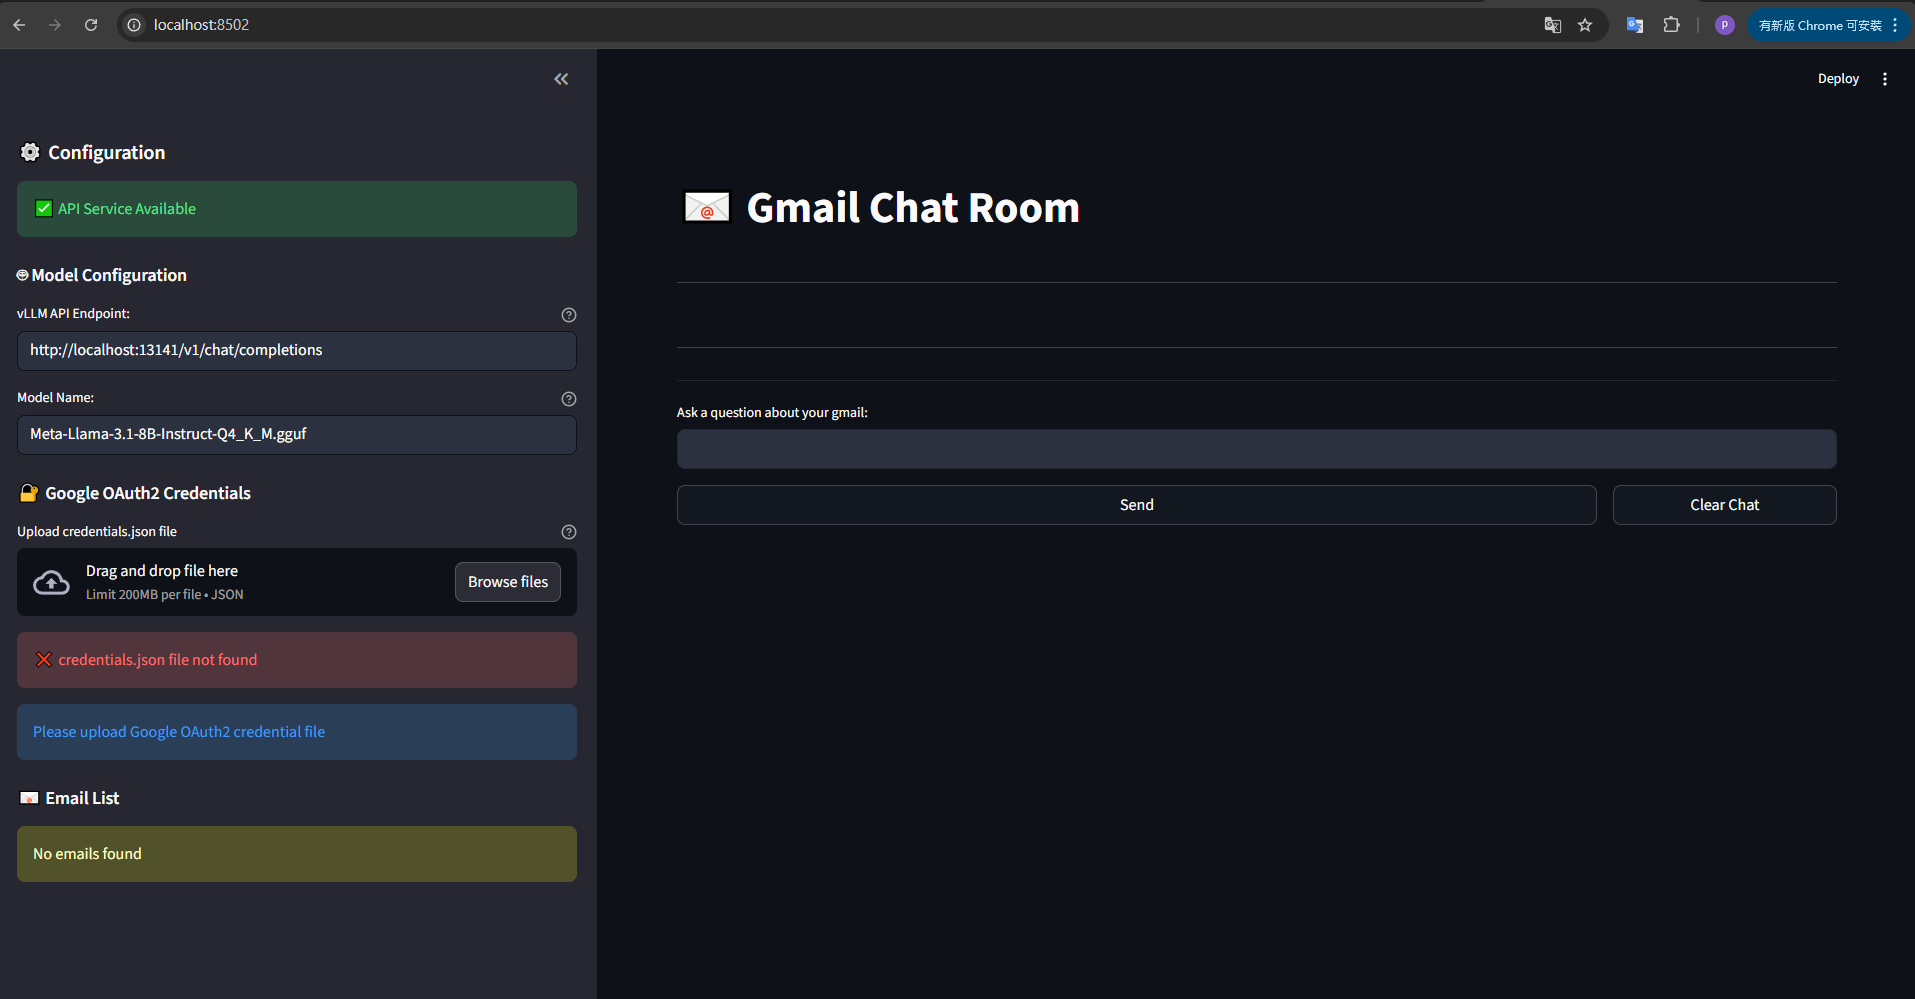
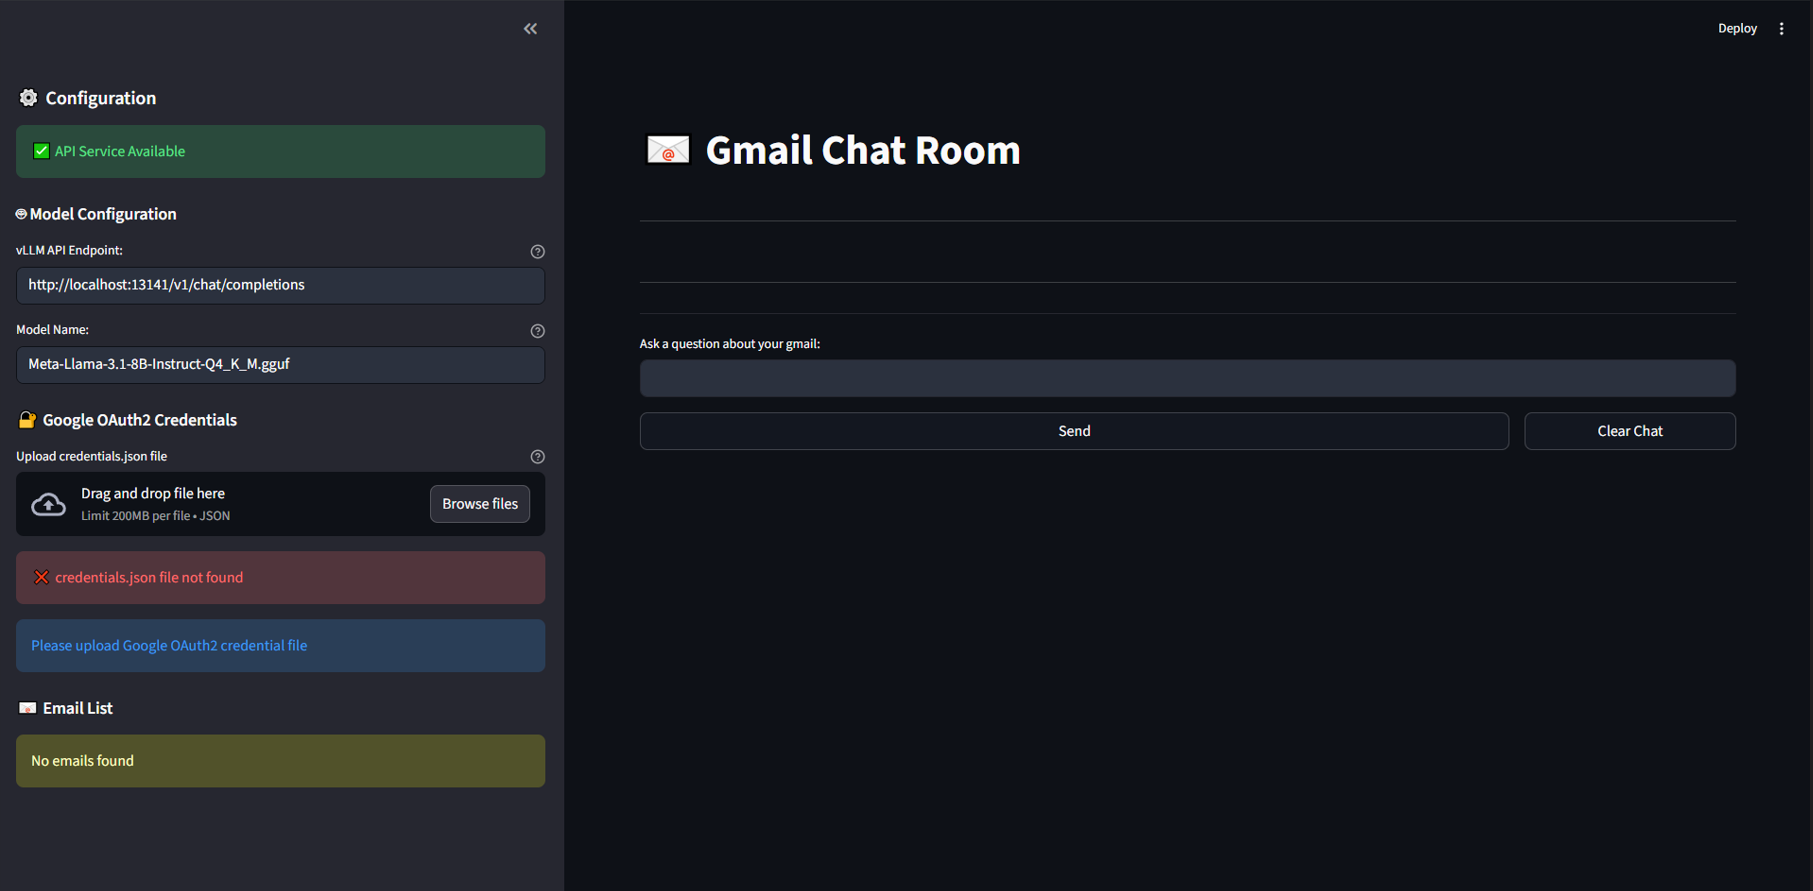
docs: update content

diff --git a/USER_MANUAL.md b/USER_MANUAL.md
@@ -70,7 +70,7 @@ LLM app with RAG to chat with Gmail. The app uses Retrieval Augmented Generation
 ![image](images/fig_5.PNG)
 
 
-6. Click on `search gmail inbox` button. All your emails will be listed below.
+6. Click on `Fetch Emails` button. All your emails will be listed below.
 
 ![image](images/fig_6.PNG)
 
